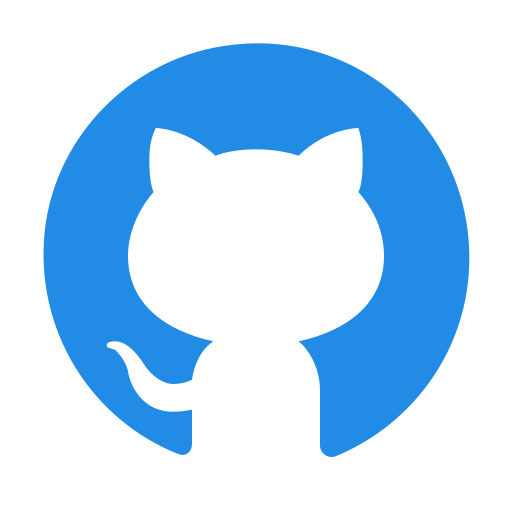
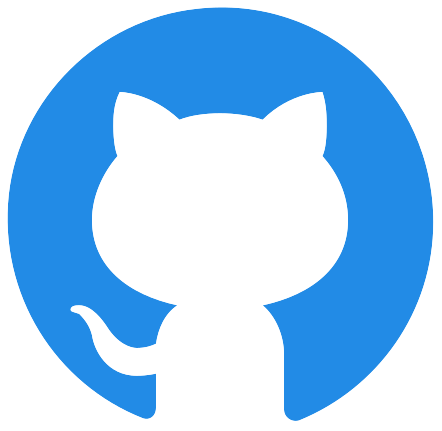
update

Changed region(s): [[0.0, 0.0, 1.0, 0.9954]]

diff --git a/index.html b/index.html
@@ -43,7 +43,7 @@ if(targetObj.style.display!="none"){
 				<font size="6"> Ph.D. Candidate (second year)</font> <br>
 				<font size="6"> University of Liverpool </font> <br>
 				<a href="mailto:chaolong.yang@liverpool.ac.uk"><img src="imgs/email.png" width=45px></a>&ensp;
-				<a href="https://github.com/chaolongy"><img src="imgs/git.png" width=45px></a>&ensp;
+				<a href="https://github.com/chaolongy"><img src="imgs/github.png" width=45px></a>&ensp;
 				<a href="https://scholar.google.com/citations?user=svp30T0AAAAJ&hl=zh-CN"><img src="imgs/google.png" width=45px></a>&ensp;
 			</h1>
 		</div>
